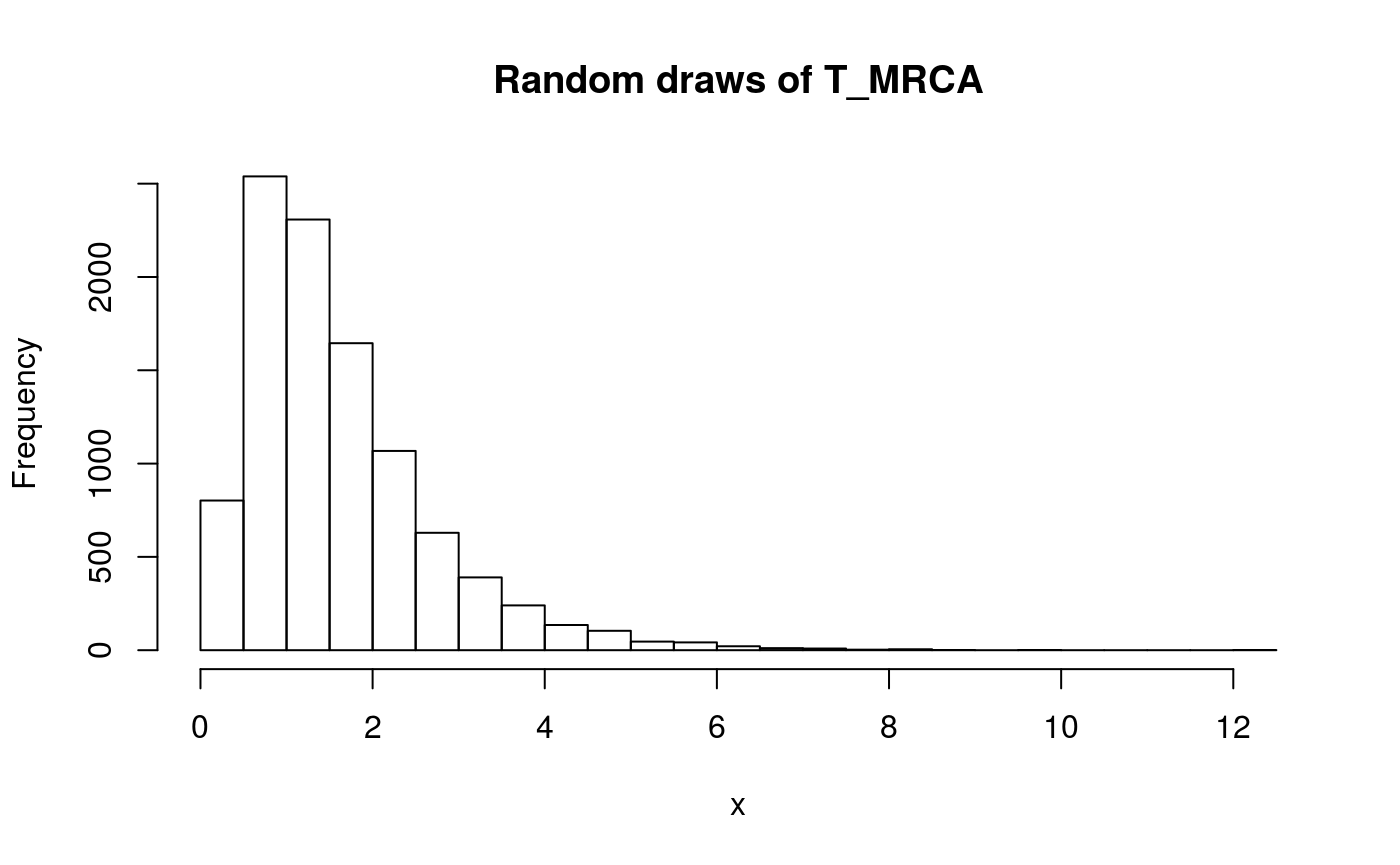
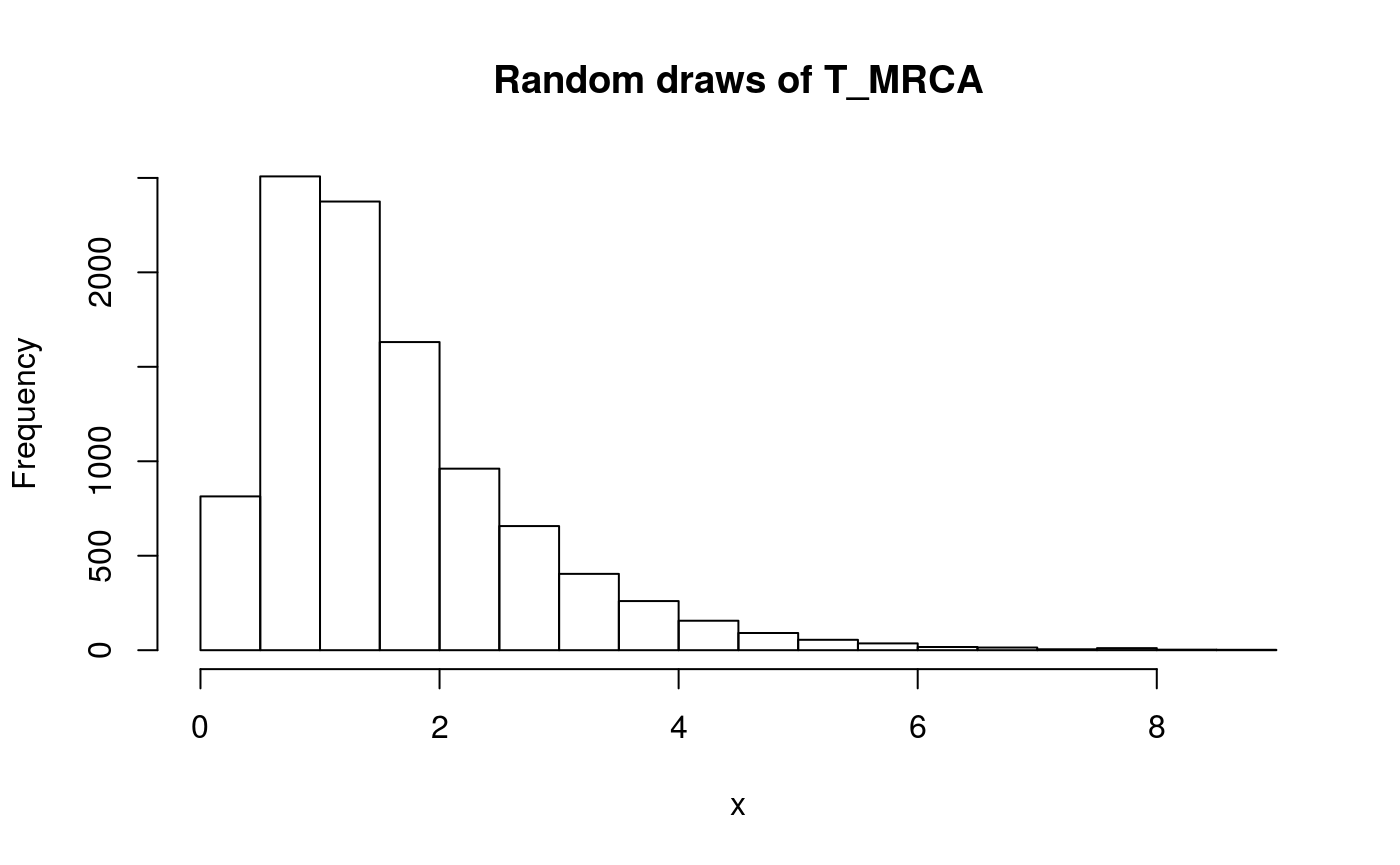
Updated reference.

diff --git a/docs/articles/ticphasetype.html b/docs/articles/ticphasetype.html
@@ -173,11 +173,11 @@
 <a class="sourceLine" id="cb8-12" data-line-number="12"></a>
 <a class="sourceLine" id="cb8-13" data-line-number="13">subint_arbit[n<span class="dv">-1</span>,n<span class="dv">-1</span>] &lt;-<span class="st"> </span><span class="dv">-1</span></a></code></pre></div>
 <div class="sourceCode" id="cb9"><pre class="sourceCode r"><code class="sourceCode r"><a class="sourceLine" id="cb9-1" data-line-number="1">subint_arbit</a>
-<a class="sourceLine" id="cb9-2" data-line-number="2"><span class="co">#&gt;           [,1]      [,2]      [,3]      [,4]</span></a>
-<a class="sourceLine" id="cb9-3" data-line-number="3"><span class="co">#&gt; [1,] -15.73879  7.973372  6.637744  1.127670</span></a>
-<a class="sourceLine" id="cb9-4" data-line-number="4"><span class="co">#&gt; [2,]   0.00000 -9.086550  6.659070  2.427481</span></a>
-<a class="sourceLine" id="cb9-5" data-line-number="5"><span class="co">#&gt; [3,]   0.00000  0.000000 -7.434251  7.434251</span></a>
-<a class="sourceLine" id="cb9-6" data-line-number="6"><span class="co">#&gt; [4,]   0.00000  0.000000  0.000000 -1.000000</span></a></code></pre></div>
+<a class="sourceLine" id="cb9-2" data-line-number="2"><span class="co">#&gt;           [,1]       [,2]      [,3]      [,4]</span></a>
+<a class="sourceLine" id="cb9-3" data-line-number="3"><span class="co">#&gt; [1,] -18.77594   4.542082  8.818558  5.415297</span></a>
+<a class="sourceLine" id="cb9-4" data-line-number="4"><span class="co">#&gt; [2,]   0.00000 -17.522665  8.381081  9.141584</span></a>
+<a class="sourceLine" id="cb9-5" data-line-number="5"><span class="co">#&gt; [3,]   0.00000   0.000000 -7.376668  7.376668</span></a>
+<a class="sourceLine" id="cb9-6" data-line-number="6"><span class="co">#&gt; [4,]   0.00000   0.000000  0.000000 -1.000000</span></a></code></pre></div>
 <p>This matrix can be supplied to the <code><a href="../reference/cont_phase_type.html">cont_phase_type()</a></code> generator function, together with optional initial probabilities:</p>
 <div class="sourceCode" id="cb10"><pre class="sourceCode r"><code class="sourceCode r"><a class="sourceLine" id="cb10-1" data-line-number="1">T_arbit_ph &lt;-<span class="st"> </span><span class="kw"><a href="../reference/cont_phase_type.html">cont_phase_type</a></span>(<span class="dt">subint_mat =</span> subint_arbit)</a>
 <a class="sourceLine" id="cb10-2" data-line-number="2"><span class="co">#&gt; Warning in cont_phase_type(subint_mat = subint_arbit): The initial</span></a>
@@ -187,11 +187,11 @@
 <div class="sourceCode" id="cb11"><pre class="sourceCode r"><code class="sourceCode r"><a class="sourceLine" id="cb11-1" data-line-number="1"><span class="kw"><a href="https://rdrr.io/r/base/summary.html">summary</a></span>(T_arbit_ph)</a>
 <a class="sourceLine" id="cb11-2" data-line-number="2"><span class="co">#&gt; </span></a>
 <a class="sourceLine" id="cb11-3" data-line-number="3"><span class="co">#&gt; Subintensity matrix:</span></a>
-<a class="sourceLine" id="cb11-4" data-line-number="4"><span class="co">#&gt;           [,1]      [,2]      [,3]      [,4]</span></a>
-<a class="sourceLine" id="cb11-5" data-line-number="5"><span class="co">#&gt; [1,] -15.73879  7.973372  6.637744  1.127670</span></a>
-<a class="sourceLine" id="cb11-6" data-line-number="6"><span class="co">#&gt; [2,]   0.00000 -9.086550  6.659070  2.427481</span></a>
-<a class="sourceLine" id="cb11-7" data-line-number="7"><span class="co">#&gt; [3,]   0.00000  0.000000 -7.434251  7.434251</span></a>
-<a class="sourceLine" id="cb11-8" data-line-number="8"><span class="co">#&gt; [4,]   0.00000  0.000000  0.000000 -1.000000</span></a>
+<a class="sourceLine" id="cb11-4" data-line-number="4"><span class="co">#&gt;           [,1]       [,2]      [,3]      [,4]</span></a>
+<a class="sourceLine" id="cb11-5" data-line-number="5"><span class="co">#&gt; [1,] -18.77594   4.542082  8.818558  5.415297</span></a>
+<a class="sourceLine" id="cb11-6" data-line-number="6"><span class="co">#&gt; [2,]   0.00000 -17.522665  8.381081  9.141584</span></a>
+<a class="sourceLine" id="cb11-7" data-line-number="7"><span class="co">#&gt; [3,]   0.00000   0.000000 -7.376668  7.376668</span></a>
+<a class="sourceLine" id="cb11-8" data-line-number="8"><span class="co">#&gt; [4,]   0.00000   0.000000  0.000000 -1.000000</span></a>
 <a class="sourceLine" id="cb11-9" data-line-number="9"><span class="co">#&gt; </span></a>
 <a class="sourceLine" id="cb11-10" data-line-number="10"><span class="co">#&gt; Initial probabilities:</span></a>
 <a class="sourceLine" id="cb11-11" data-line-number="11"><span class="co">#&gt;      [,1] [,2] [,3] [,4]</span></a>
@@ -200,9 +200,9 @@
 <a class="sourceLine" id="cb11-14" data-line-number="14"><span class="co">#&gt; Defect:</span></a>
 <a class="sourceLine" id="cb11-15" data-line-number="15"><span class="co">#&gt; [1] 0</span></a>
 <a class="sourceLine" id="cb11-16" data-line-number="16"><span class="co">#&gt; </span></a>
-<a class="sourceLine" id="cb11-17" data-line-number="17"><span class="co">#&gt; Mean: 1.225961</span></a>
+<a class="sourceLine" id="cb11-17" data-line-number="17"><span class="co">#&gt; Mean: 1.146421</span></a>
 <a class="sourceLine" id="cb11-18" data-line-number="18"><span class="co">#&gt; </span></a>
-<a class="sourceLine" id="cb11-19" data-line-number="19"><span class="co">#&gt; Variance: 1.029616</span></a></code></pre></div>
+<a class="sourceLine" id="cb11-19" data-line-number="19"><span class="co">#&gt; Variance: 1.019039</span></a></code></pre></div>
 </div>
 <div id="density-distribution-and-quantile-functions" class="section level2">
 <h2 class="hasAnchor">
@@ -233,7 +233,7 @@
 <a class="sourceLine" id="cb17-5" data-line-number="5"><span class="kw"><a href="https://rdrr.io/r/graphics/title.html">title</a></span>(<span class="st">'Distribution function of T_MRCA'</span>)</a></code></pre></div>
 <p><img src="ticphasetype_files/figure-html/unnamed-chunk-17-1.png" width="700"></p>
 <div class="sourceCode" id="cb18"><pre class="sourceCode r"><code class="sourceCode r"><a class="sourceLine" id="cb18-1" data-line-number="1"><span class="kw"><a href="../reference/dphtype.html">rphtype</a></span>(<span class="dv">3</span>, T_MRCA_ph)</a>
-<a class="sourceLine" id="cb18-2" data-line-number="2"><span class="co">#&gt; [1] 1.8071855 0.3556518 1.0832826</span></a></code></pre></div>
+<a class="sourceLine" id="cb18-2" data-line-number="2"><span class="co">#&gt; [1] 0.8923576 0.8230264 2.0729429</span></a></code></pre></div>
 <div class="sourceCode" id="cb19"><pre class="sourceCode r"><code class="sourceCode r"><a class="sourceLine" id="cb19-1" data-line-number="1">x &lt;-<span class="st"> </span><span class="kw"><a href="../reference/dphtype.html">rphtype</a></span>(<span class="dv">10000</span>, T_MRCA_ph)</a>
 <a class="sourceLine" id="cb19-2" data-line-number="2"><span class="kw"><a href="https://rdrr.io/r/graphics/hist.html">hist</a></span>(x, <span class="dt">main =</span> <span class="st">'Random draws of T_MRCA'</span>, <span class="dt">breaks=</span><span class="dv">20</span>)</a></code></pre></div>
 <p><img src="ticphasetype_files/figure-html/unnamed-chunk-19-1.png" width="700"></p>
@@ -458,7 +458,7 @@
 <a class="sourceLine" id="cb31-5" data-line-number="5"><span class="kw"><a href="https://rdrr.io/r/graphics/title.html">title</a></span>(<span class="st">'Quantile function of S_total with theta=3 and n=10'</span>)</a></code></pre></div>
 <p><img src="ticphasetype_files/figure-html/unnamed-chunk-31-1.png" width="700"></p>
 <div class="sourceCode" id="cb32"><pre class="sourceCode r"><code class="sourceCode r"><a class="sourceLine" id="cb32-1" data-line-number="1"><span class="kw"><a href="../reference/dphtype.html">rphtype</a></span>(<span class="dv">3</span>, S_tot_ph)</a>
-<a class="sourceLine" id="cb32-2" data-line-number="2"><span class="co">#&gt; [1] 12  9 17</span></a></code></pre></div>
+<a class="sourceLine" id="cb32-2" data-line-number="2"><span class="co">#&gt; [1] 11  5  5</span></a></code></pre></div>
 <div class="sourceCode" id="cb33"><pre class="sourceCode r"><code class="sourceCode r"><a class="sourceLine" id="cb33-1" data-line-number="1">x &lt;-<span class="st"> </span><span class="kw"><a href="../reference/dphtype.html">rphtype</a></span>(<span class="dv">10000</span>, S_tot_ph)</a>
 <a class="sourceLine" id="cb33-2" data-line-number="2"><span class="kw"><a href="https://rdrr.io/r/graphics/hist.html">hist</a></span>(x, <span class="dt">main =</span> <span class="st">'Random draws of S_total with theta=3 and n=10'</span>, <span class="dt">breaks=</span><span class="dv">20</span>)</a></code></pre></div>
 <p><img src="ticphasetype_files/figure-html/unnamed-chunk-33-1.png" width="700"></p>

diff --git a/docs/reference/index.html b/docs/reference/index.html
@@ -221,6 +221,12 @@ phase-type distributions</p></td>
           <p><code><a href="RewTransform.html">RewTransform()</a></code> </p>
         </td>
         <td><p>Discretize MPH object with a reward vector</p></td>
+      </tr><tr>
+        
+        <td>
+          <p><code><a href="var.html">var()</a></code> </p>
+        </td>
+        <td><p>Variance of cont_phase_type distributions</p></td>
       </tr>
     </tbody>
     </table>
